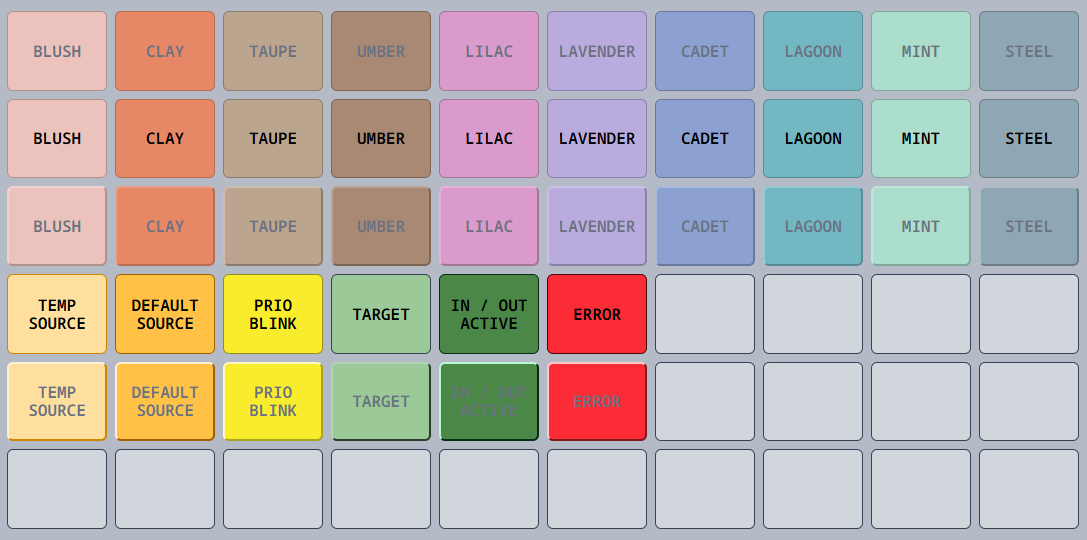
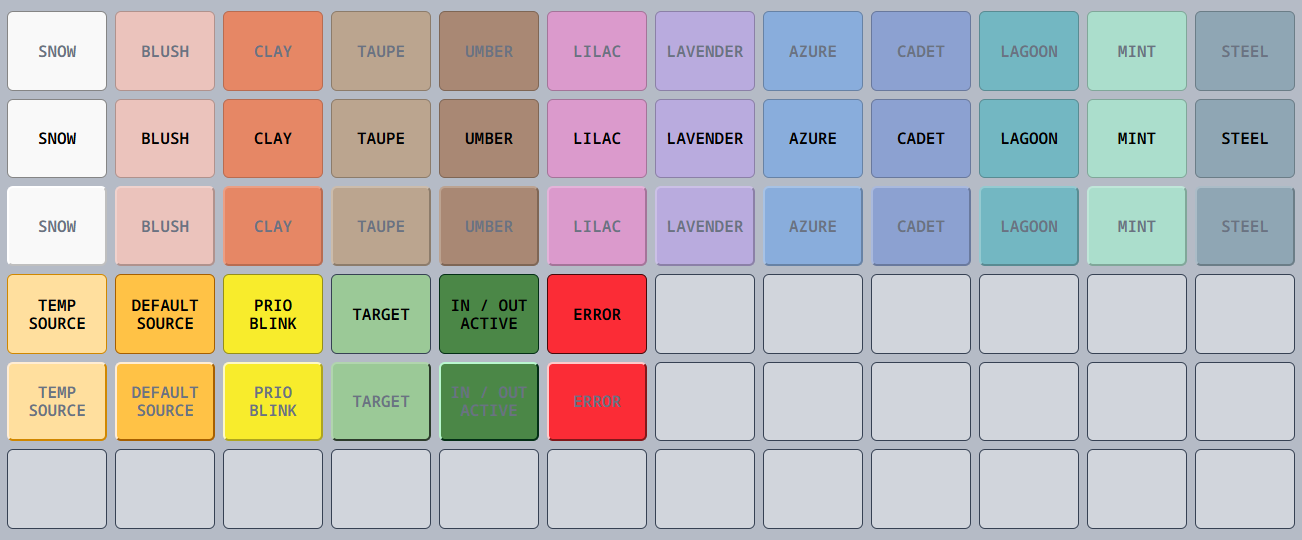
feat: add snow and azure custom button color

diff --git a/docs/dataset/profiles.md b/docs/dataset/profiles.md
@@ -147,6 +147,8 @@ A client page displays a dynamic list of online clients instead of a static grid
 - `"steel"`
 - `"umber"`
 - `"lagoon"`
+- `"snow"`
+- `"azure"`
 
 See [button color reference](#button-colors) for a visual representation of these colors.
 
